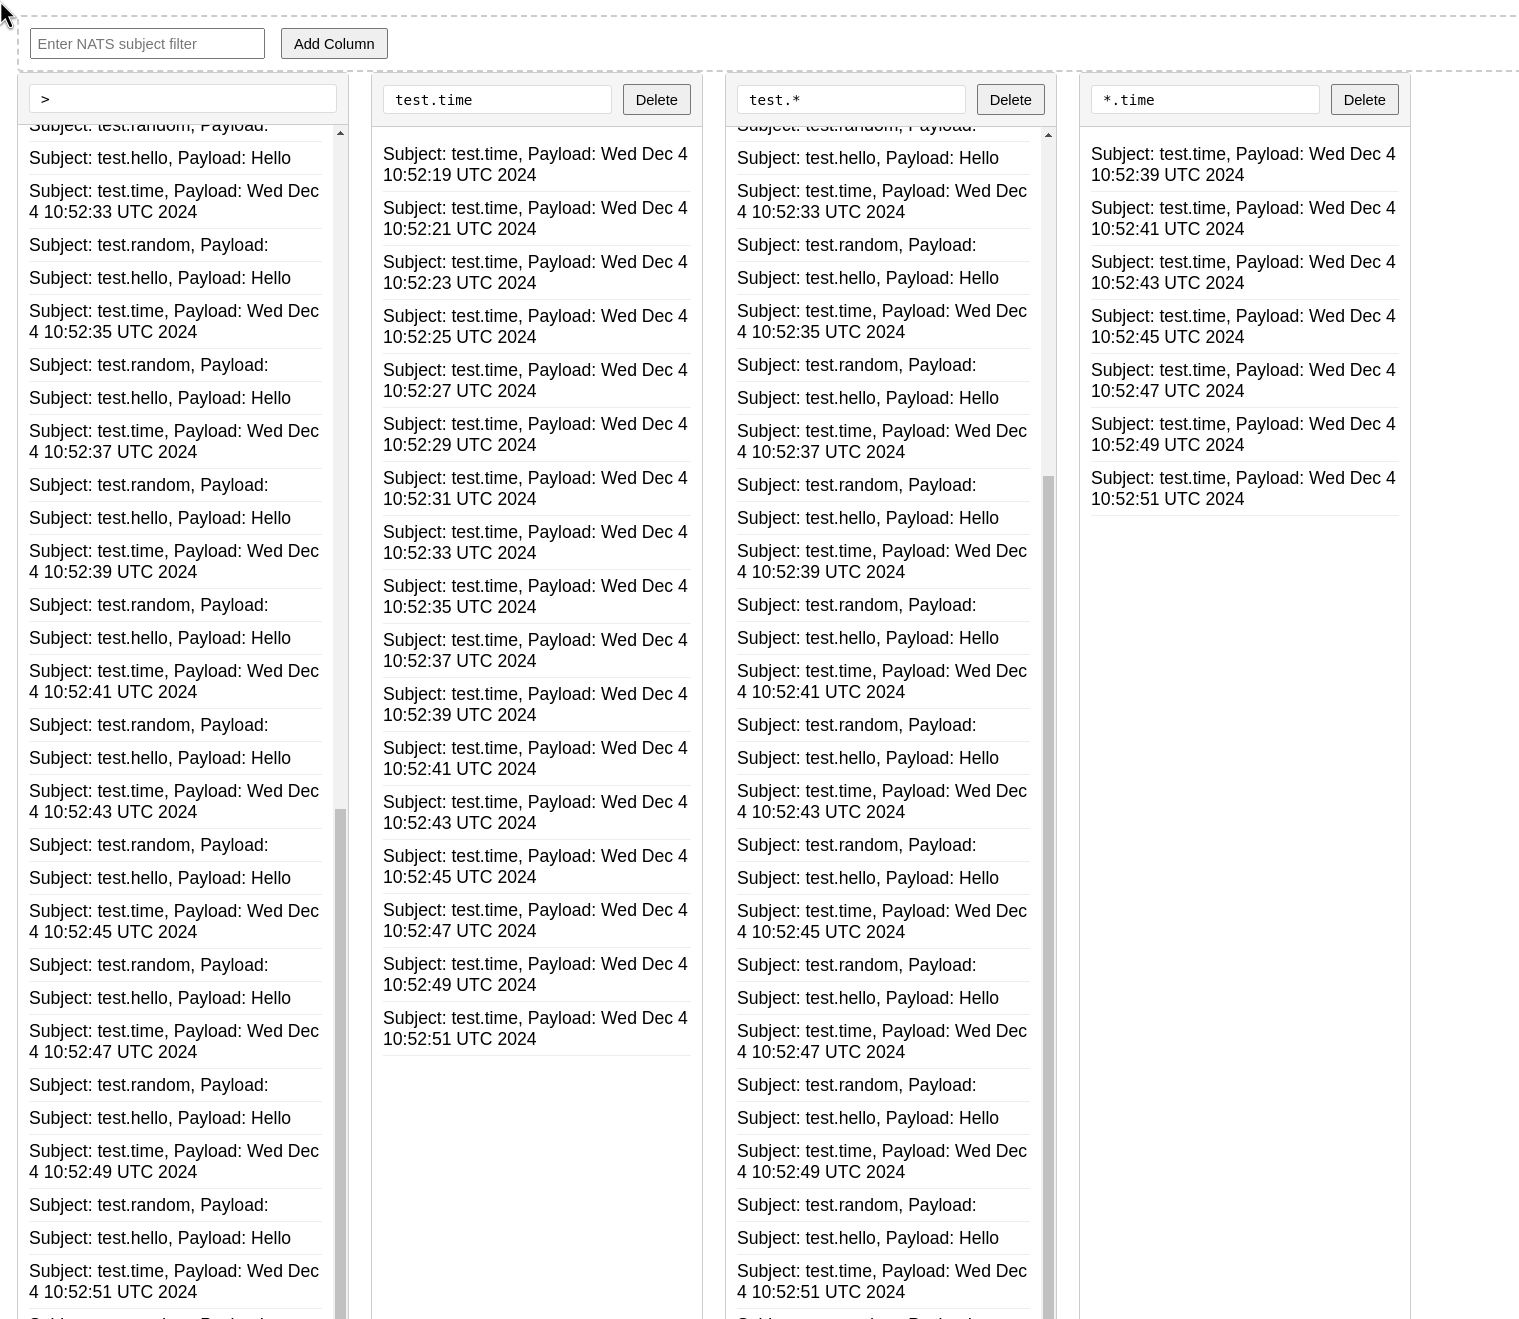
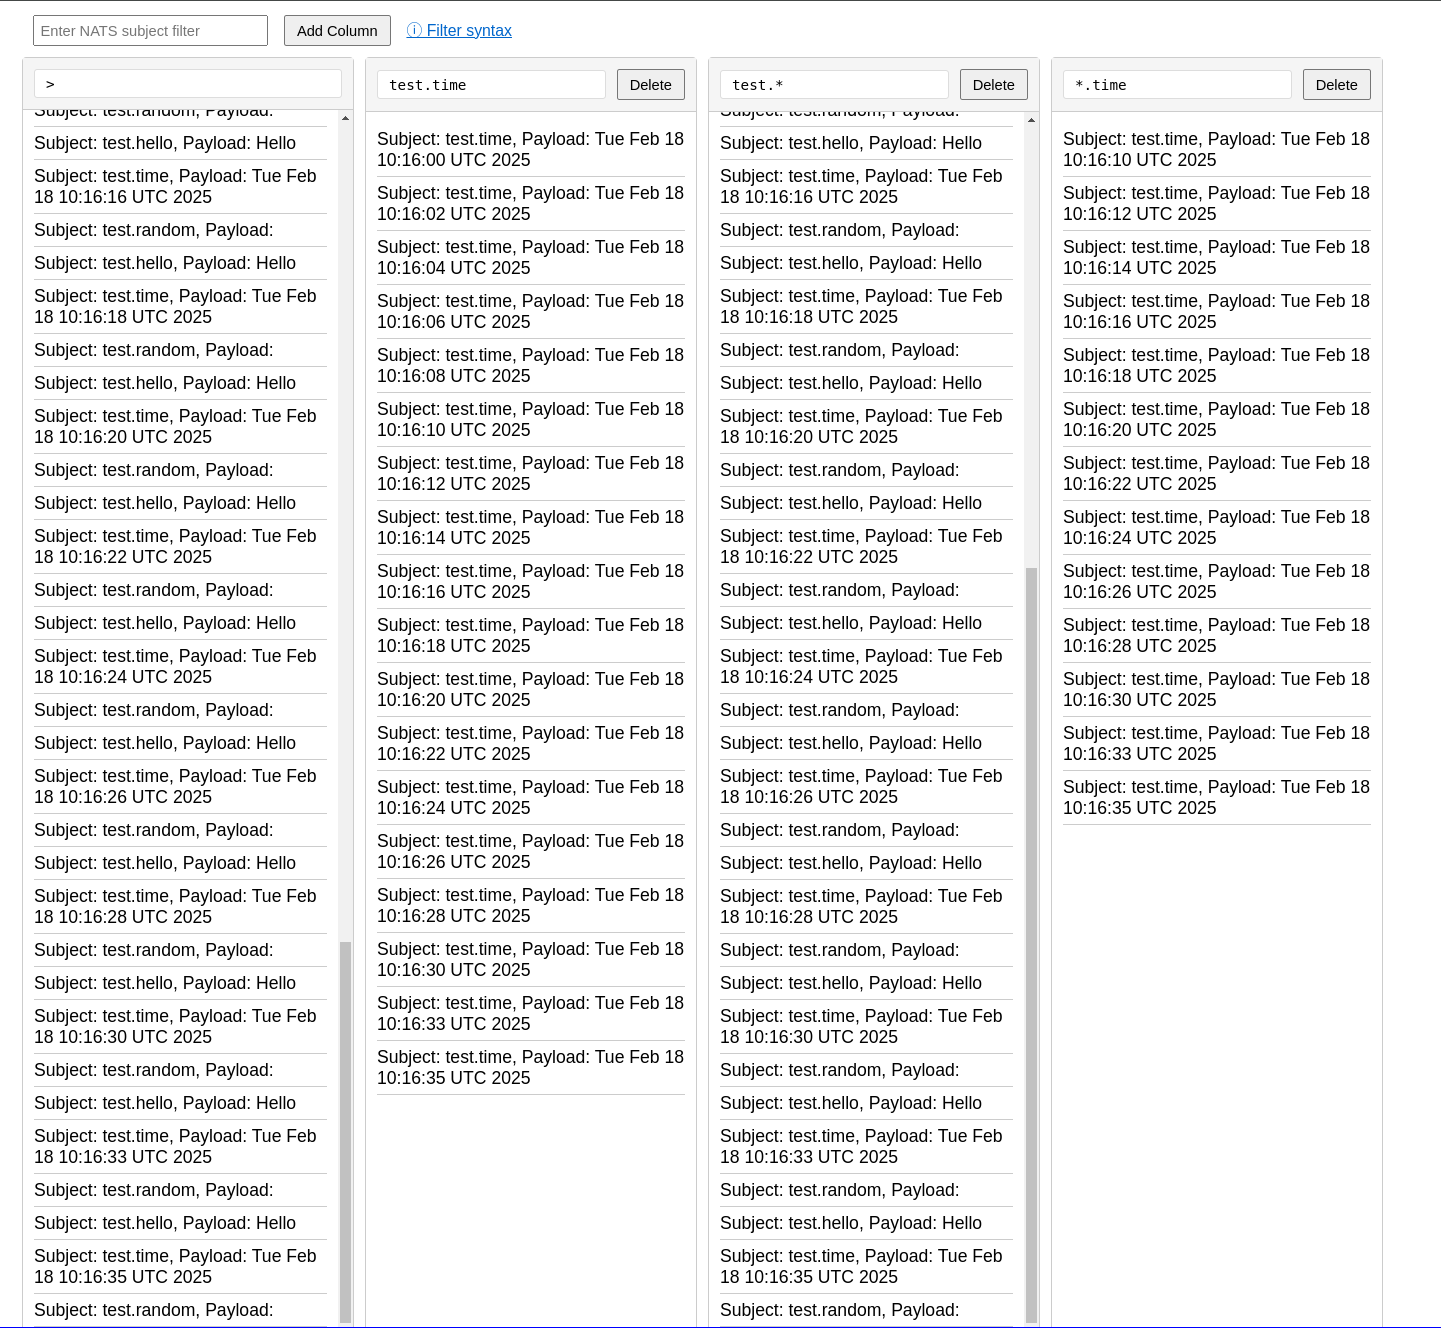
Updated the UI, updated the README to include the new UI, bump version

Changed region(s): [[0.0, 0.0, 1.0, 1.0]]

diff --git a/src/main.rs b/src/main.rs
@@ -21,12 +21,13 @@ const INDEX_HTML: &str = r#"<!DOCTYPE html>
             font-family: -apple-system, BlinkMacSystemFont, 'Segoe UI', Roboto, sans-serif;
             margin: 0;
             padding: 20px;
+            padding-top: 0;
             height: 100vh;
             overflow-x: auto;
         }
         .columns-container {
             display: flex;
-            gap: 20px;
+            gap: 10px;
             height: calc(100vh - 40px);
             min-width: min-content;
         }
@@ -61,7 +62,7 @@ const INDEX_HTML: &str = r#"<!DOCTYPE html>
         }
         .message {
             padding: 5px 0;
-            border-bottom: 1px solid #eee;
+            border-bottom: 1px solid #ccc;
             word-break: break-word;
         }
         button {
@@ -71,10 +72,8 @@ const INDEX_HTML: &str = r#"<!DOCTYPE html>
         .add-column {
             position: sticky;
             left: 20px;
-            top: 20px;
             z-index: 1000;
             background: white;
-            border: 2px dashed #ccc;
             padding: 10px;
             border-radius: 4px;
         }
